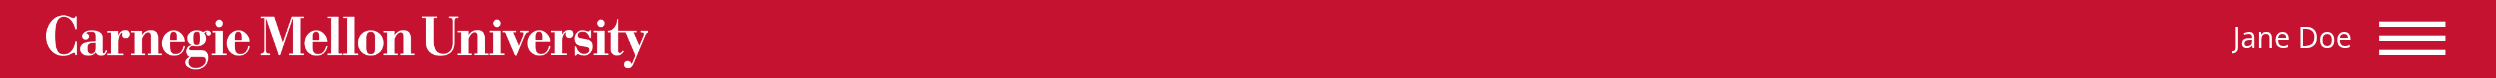
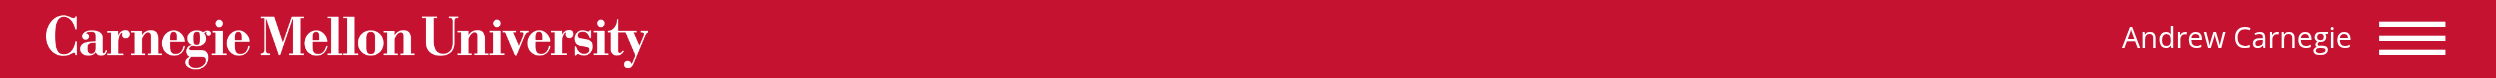
docs: make Andrew Carnegie (ac00) the example person throughout

Changed region(s): [[0.8438, 0.359, 0.9375, 0.641], [0.9062, 0.6667, 0.9375, 0.6923]]

diff --git a/docs/app-users.html b/docs/app-users.html
@@ -78,7 +78,7 @@
             <figure class="cmu-shot">
               <img
                 src="images/account-signed-in.png"
-                alt="The red roof signed in: the wordmark on the left, and the name Jane Doe beside the menu button on the right."
+                alt="The red roof signed in: the wordmark on the left, and the name Andrew Carnegie beside the menu button on the right."
                 width="1248"
                 height="39"
               />
@@ -96,13 +96,13 @@
             <pre class="kit-code"><code>&lt;!-- In .roof, after the wordmark. Signed out: --&gt;
 &lt;a class="cmu-account" href="/login"&gt;Sign In&lt;/a&gt;
 &lt;!-- Signed in: --&gt;
-&lt;a class="cmu-account cmu-account-open" href="#nav" aria-label="Menu for Jane Doe"
-   onclick="document.querySelector('.roof .menu-btn').click(); return false;"&gt;Jane Doe&lt;/a&gt;
+&lt;a class="cmu-account cmu-account-open" href="#nav" aria-label="Menu for Andrew Carnegie"
+   onclick="document.querySelector('.roof .menu-btn').click(); return false;"&gt;Andrew Carnegie&lt;/a&gt;
 
 &lt;!-- First item in nav#nav &gt; ul. The template shows li.secondary only in the menu.
      An &lt;a&gt; without href gets the menu's spacing but isn't a link. --&gt;
 &lt;li class="secondary right cmu-account-menu"&gt;
-  &lt;a class="cmu-account-name"&gt;Jane Doe&lt;/a&gt;
+  &lt;a class="cmu-account-name"&gt;Andrew Carnegie&lt;/a&gt;
   &lt;a href="/preferences"&gt;Preferences&lt;/a&gt;
   &lt;a href="/logout"&gt;Sign Out&lt;/a&gt;
 &lt;/li&gt;</code></pre>
@@ -122,10 +122,10 @@
             <p class="kit-classes"><code>cmu-avatar</code></p>
             <pre
               class="kit-code"
-            ><code>&lt;a class="cmu-account cmu-account-open" href="#nav" aria-label="Menu for Jane Doe" &hellip;&gt;&lt;img class="cmu-avatar" src="/photos/jdoe.jpg" alt=""&gt;Jane Doe&lt;/a&gt;
+            ><code>&lt;a class="cmu-account cmu-account-open" href="#nav" aria-label="Menu for Andrew Carnegie" &hellip;&gt;&lt;img class="cmu-avatar" src="/photos/ac00.jpg" alt=""&gt;Andrew Carnegie&lt;/a&gt;
 
 &lt;li class="secondary right cmu-account-menu"&gt;
-  &lt;a class="cmu-account-name"&gt;&lt;img class="cmu-avatar" src="/photos/jdoe.jpg" alt=""&gt;Jane Doe&lt;/a&gt;
+  &lt;a class="cmu-account-name"&gt;&lt;img class="cmu-avatar" src="/photos/ac00.jpg" alt=""&gt;Andrew Carnegie&lt;/a&gt;
   &lt;a href="/preferences"&gt;Preferences&lt;/a&gt;
   &lt;a href="/logout"&gt;Sign Out&lt;/a&gt;
 &lt;/li&gt;</code></pre>
@@ -223,8 +223,8 @@
             <!-- prettier-ignore -->
             <div class="kit-demo">
         <form class="cmu-acting-bar" method="post" action="/stop-acting">
-          <p>You're acting as Jane Doe (jdoe)</p>
-          <button type="submit" class="btn ghost small">Stop Acting as Jane Doe</button>
+          <p>You're acting as Andrew Carnegie (ac00)</p>
+          <button type="submit" class="btn ghost small">Stop Acting as Andrew Carnegie</button>
         </form>
       </div>
             <p>

diff --git a/docs/standard-people.html b/docs/standard-people.html
@@ -72,7 +72,7 @@
           <h1>Our Team</h1>
           <div>
             <p><img src="https://placemellon.andrew.cmu.edu/560/800.svg?solid&amp;text" alt="Placeholder for a portrait."></p>
-            <h2><a href="#bio">Jane Doe</a></h2>
+            <h2><a href="#bio">Andrew Carnegie</a></h2>
             <p>Director of Teaching Technology</p>
             <p><a class="cta" href="#bio">Read Full Bio</a></p>
           </div>
@@ -121,7 +121,7 @@
           <h1>Leadership</h1>
           <div class="aligncenter">
             <img src="images/scotty.png" alt="Scotty, standing in for a photo." width="320" height="320">
-            <h2>Jane Doe</h2>
+            <h2>Andrew Carnegie</h2>
             <h3>Director of Teaching Technology</h3>
           </div>
           <div class="aligncenter">
@@ -172,7 +172,7 @@
           <h1>Management Team</h1>
           <div>
             <img src="https://placemellon.andrew.cmu.edu/900/600.svg?solid&amp;text" alt="Placeholder for a photo.">
-            <h2 class="rule-bottom">Jane Doe | Director</h2>
+            <h2 class="rule-bottom">Andrew Carnegie | Director</h2>
             <p><span class="protect hidden">andrewid(through)andrew.cmu.edu</span></p>
             <p>Office: 412-555-0101</p>
           </div>
@@ -226,7 +226,7 @@
         <div class="content wide">
           <div>
             <p class="floatleft caption thumb"><img src="https://placemellon.andrew.cmu.edu/560/800.svg?solid&amp;text" alt="Placeholder for a portrait." width="200"></p>
-            <h1>Jane Doe</h1>
+            <h1>Andrew Carnegie</h1>
             <h2 style="font-size:1.15em">Director of Teaching Technology</h2>
             <div class="contact rule-bottom">
               <span class="collapsed floatright">Contact</span>
@@ -239,7 +239,7 @@
               </div>
             </div>
             <h2>Bio</h2>
-            <p>Jane leads Teaching Technology, the office behind the Office Hours Queue and Equipment Checkout.</p>
+            <p>Carnegie leads Teaching Technology, the office behind the Office Hours Queue and Equipment Checkout.</p>
           </div>
         </div>
       </div>

diff --git a/docs/js/docs.js b/docs/js/docs.js
@@ -233,8 +233,8 @@ document.querySelectorAll("[data-kit-filter]").forEach(function (input) {
     /* storage can be blocked; keep going */
   }
   var actingBar =
-    '<form class="cmu-acting-bar kit-try-added"><p>You\u2019re acting as Jane Doe (jdoe)</p>' +
-    '<button type="submit" class="btn ghost small">Stop Acting as Jane Doe</button></form>';
+    '<form class="cmu-acting-bar kit-try-added"><p>You\u2019re acting as Andrew Carnegie (ac00)</p>' +
+    '<button type="submit" class="btn ghost small">Stop Acting as Andrew Carnegie</button></form>';
   var searchForm =
     '<form action="https://search.cmu.edu" class="search search-form kit-try-added" method="get">' +
     '<label><span>Search</span> <input aria-label="Search" name="q" placeholder="Search"></label>' +
@@ -293,7 +293,7 @@ document.querySelectorAll("[data-kit-filter]").forEach(function (input) {
         inn
           ? '<a class="cmu-account cmu-account-open kit-try-added" href="#nav">' +
               pic +
-              "Jane Doe</a>"
+              "Andrew Carnegie</a>"
           : '<a class="cmu-account kit-try-added" href="layout.html#try-header">Sign In</a>',
       );
       if (inn)
@@ -308,7 +308,7 @@ document.querySelectorAll("[data-kit-filter]").forEach(function (input) {
             inn
               ? '<li class="secondary right cmu-account-menu kit-try-added"><a class="cmu-account-name">' +
                   pic +
-                  'Jane Doe</a><a href="app-users.html#preferences">Preferences</a><a href="layout.html#try-header">Sign Out</a></li>'
+                  'Andrew Carnegie</a><a href="app-users.html#preferences">Preferences</a><a href="layout.html#try-header">Sign Out</a></li>'
               : '<li class="secondary right cmu-account-menu kit-try-added"><a href="layout.html#try-header">Sign In</a></li>',
           ),
         );

diff --git a/docs/app.html b/docs/app.html
@@ -199,7 +199,7 @@
             <!-- prettier-ignore -->
             <div class="kit-demo">
         <p class="cmu-label">Course</p>
-        <p><span class="cmu-code">15-112</span> Fundamentals of Programming <span class="cmu-muted">(jdoe)</span></p>
+        <p><span class="cmu-code">15-112</span> Fundamentals of Programming <span class="cmu-muted">(ac00)</span></p>
         <p class="cmu-hint">Any document up to 20&nbsp;MB, such as a PDF or Word file.</p>
         <p class="cmu-empty">No sections match these filters.</p>
       </div>
